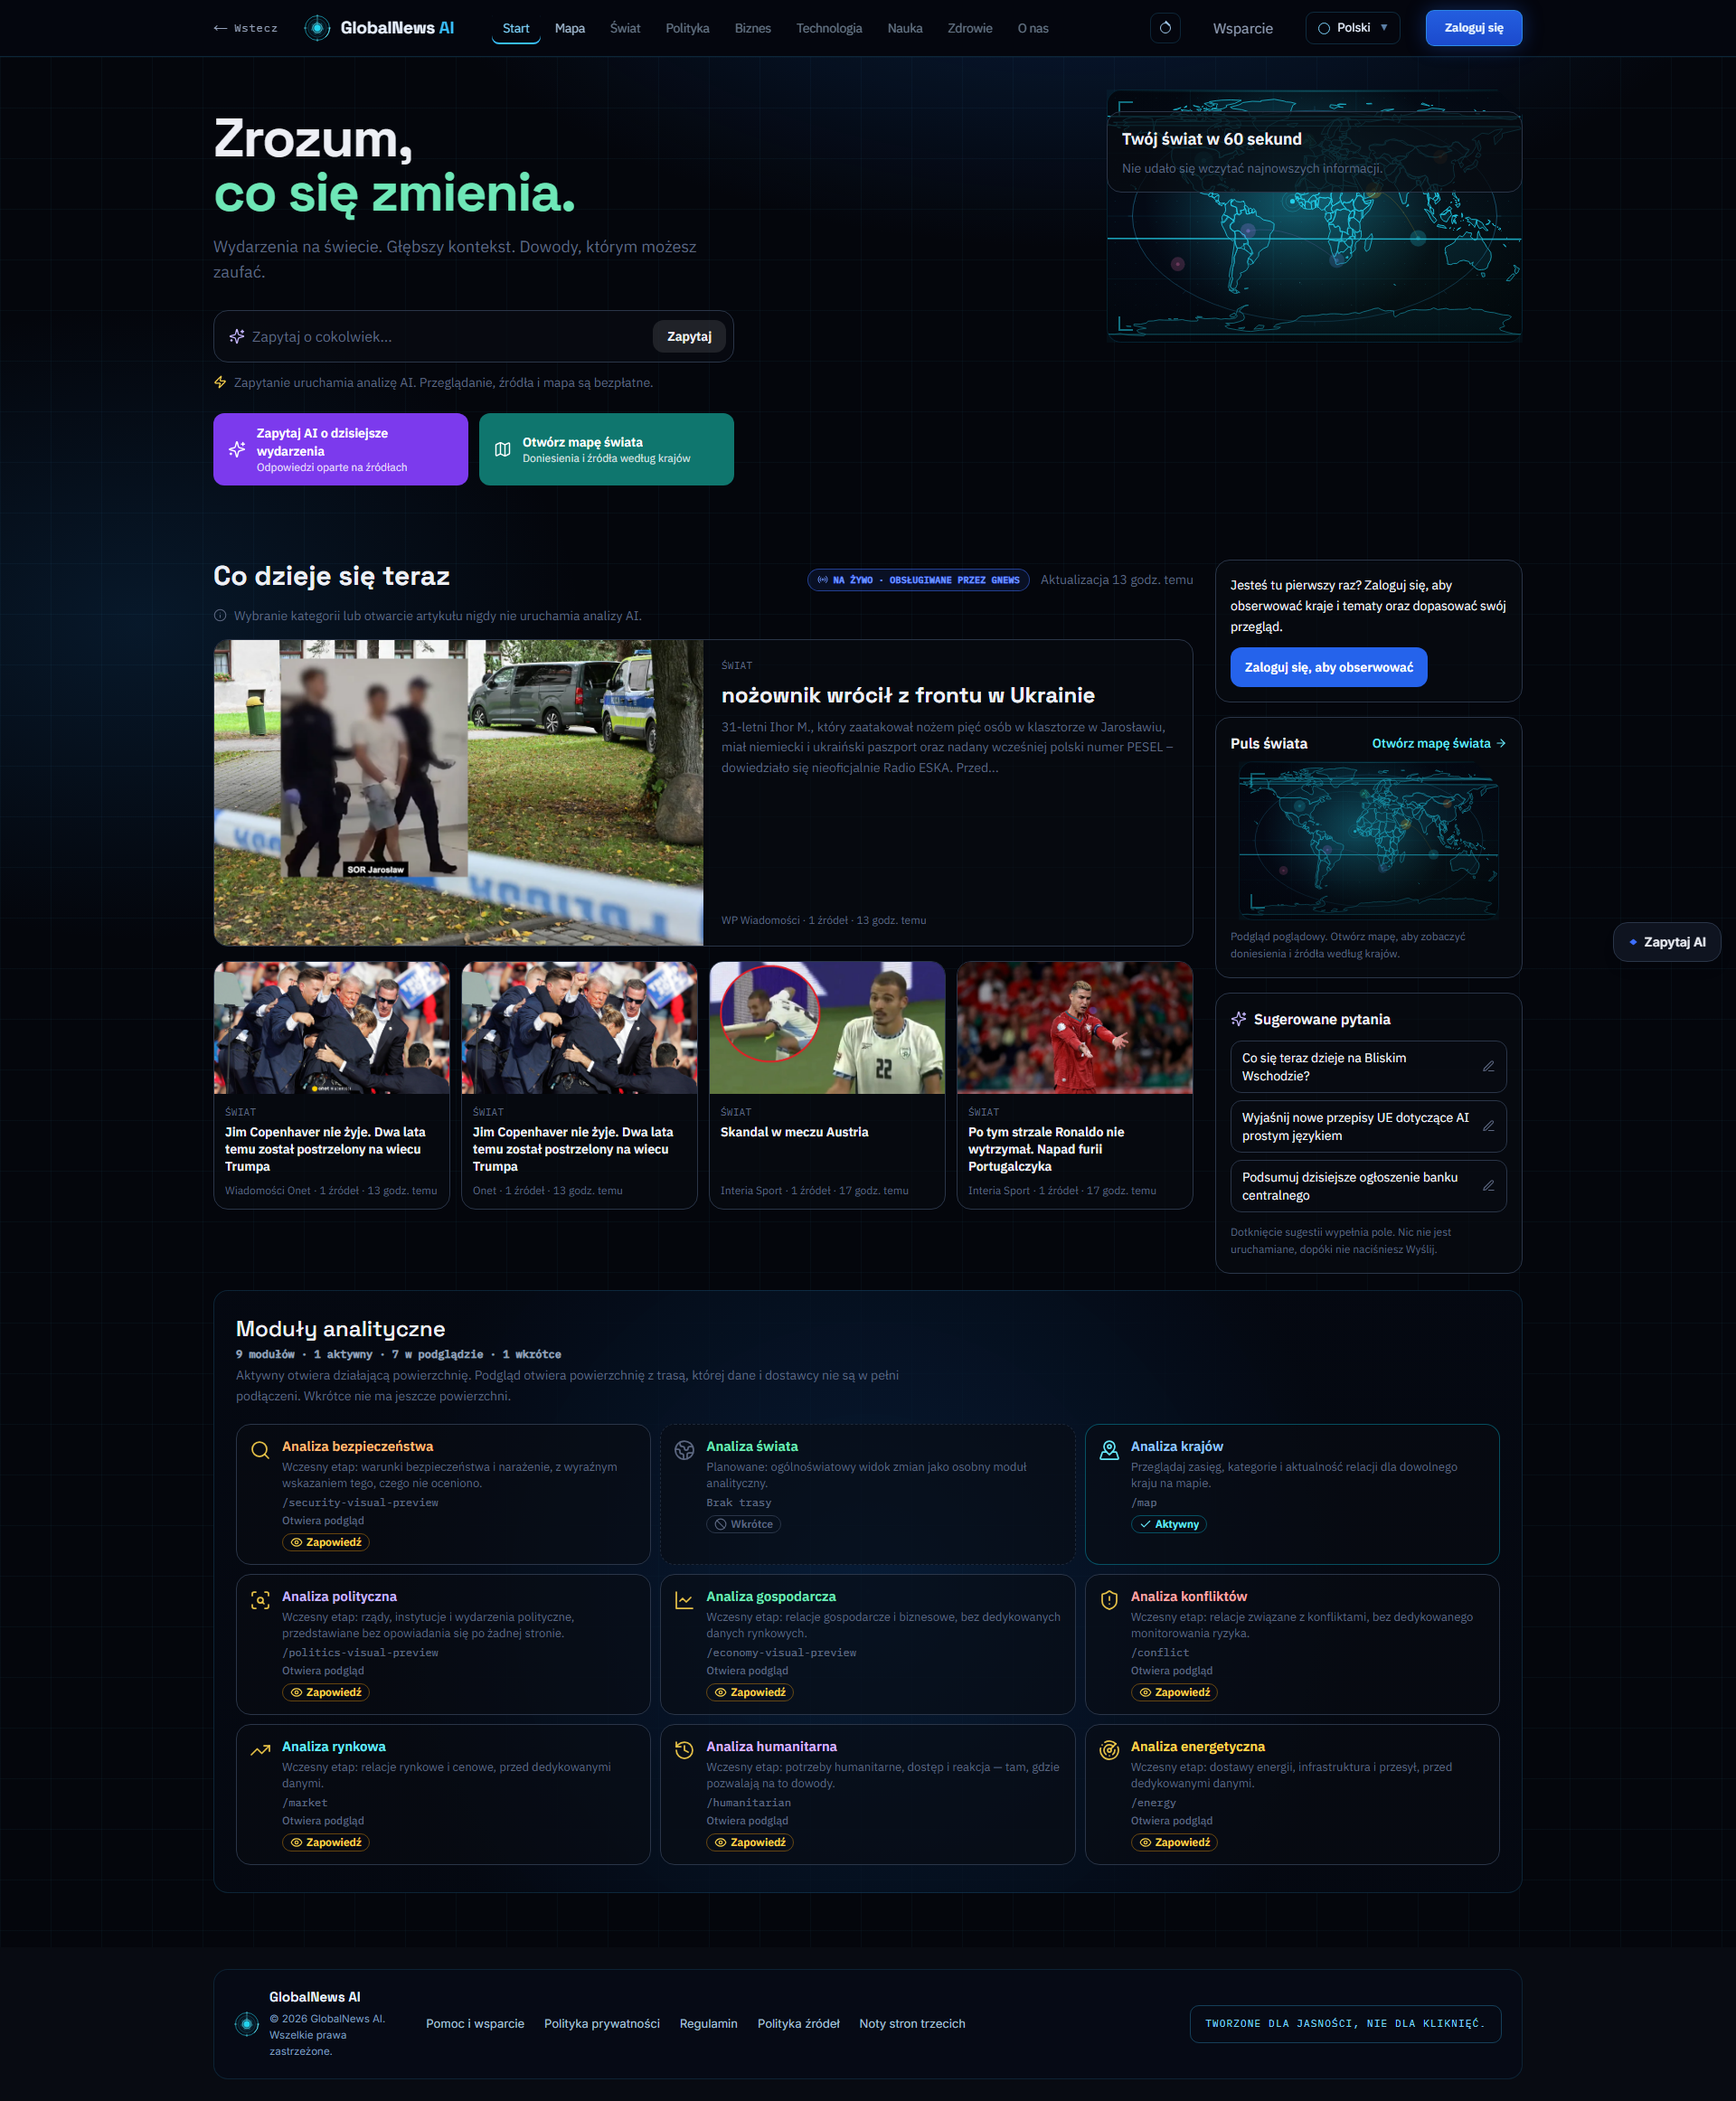
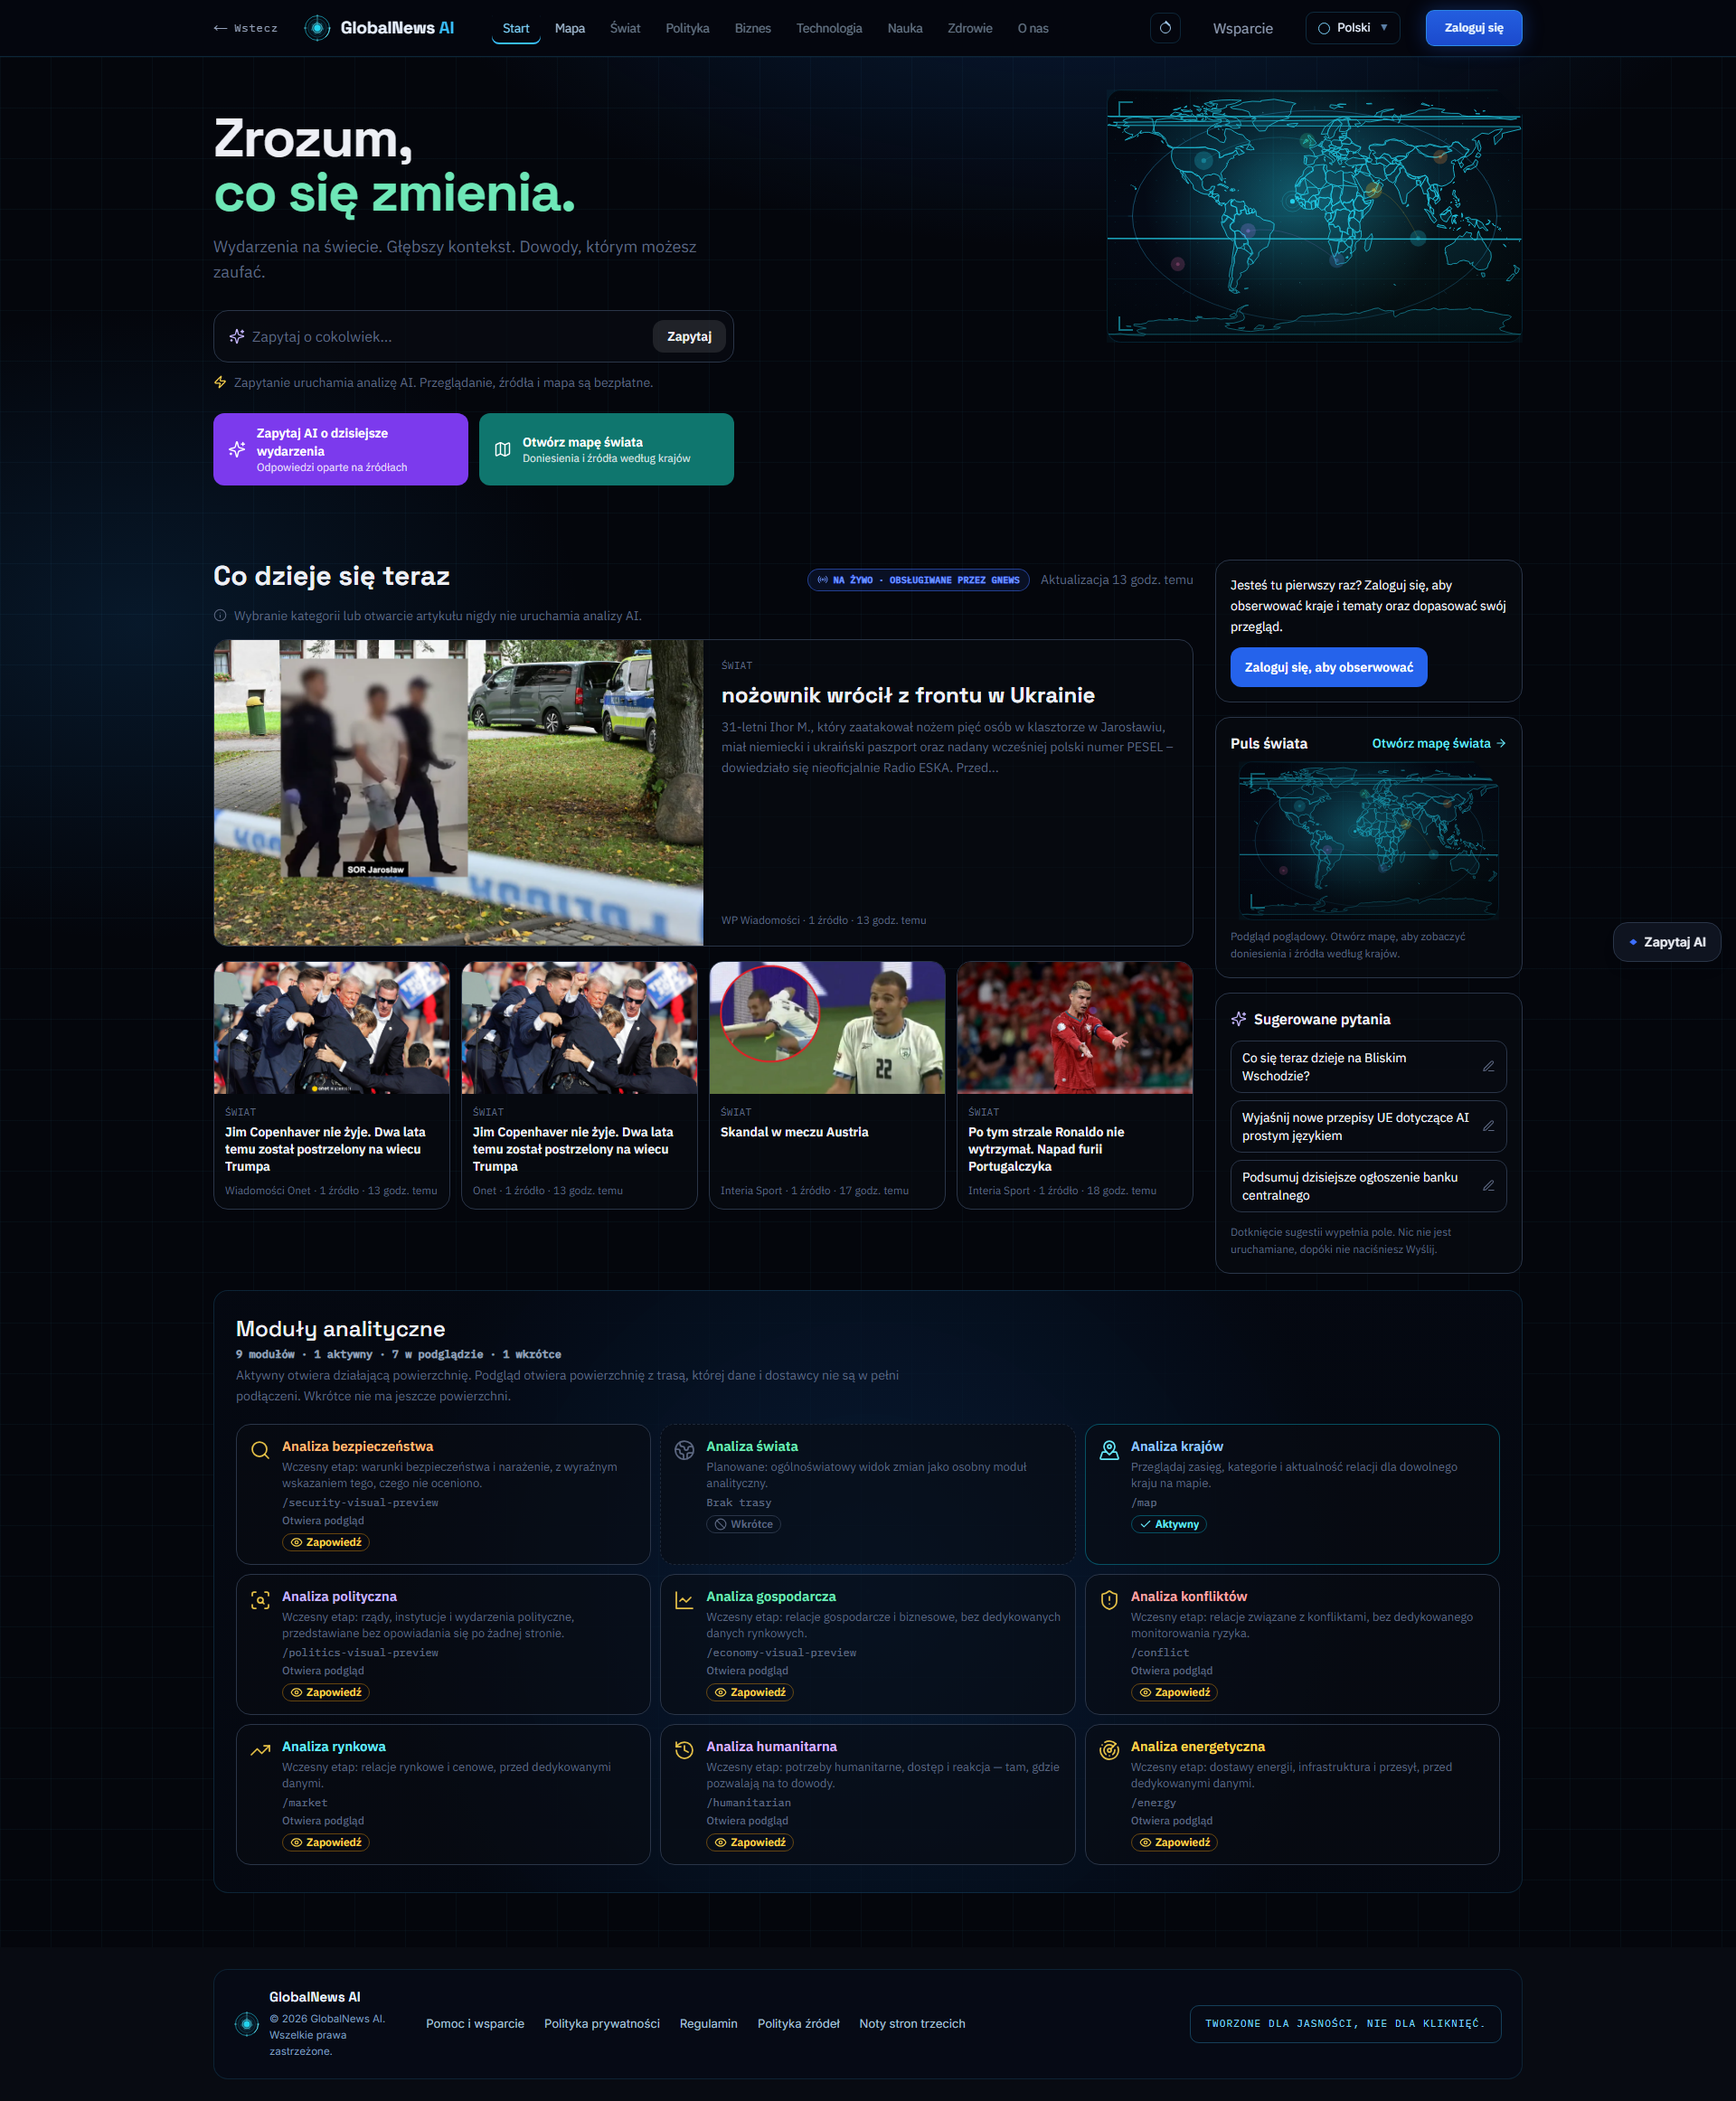
docs(home): final report and live Alpha evidence
Issue #29 §13. Records the completed Home convergence and the Alpha
deployment for Product Owner visual review.

Final Home commit 1f735ce; integration/beta-launch-convergence-r1 and
release/alpha-m08-integrated-r1 both fast-forwarded to the same SHA.
Railway alpha frontend deployment 39c4a7cc-6e3c-49e1-ab78-8a5f32eb0f23,
status SUCCESS, at https://frontend-alpha-4560.up.railway.app

Adds the 14 live-Alpha frames (seven widths x EN/PL) with a real backend and
a real GNews feed, the probe report, and the capture harness itself so the
evidence is reproducible.

Live smoke: HTTP 200, approved hero and all approved zones present, the
three retired sections absent, four destinations intact, /ask form action
present with three /ask?q= suggestion links, 0 metered AI across all 14
frames, no horizontal overflow at any width, correct <html lang> in both
locales, and both Alpha-found defects verified fixed.

Six known defects recorded rather than hidden, including one that needs a
ruling: the page <title>, og:title and twitter:title still advertise the
superseded headline. That string is the homeMetaTitle key, which is not among
the 139 approved Home copy keys and so sat outside the H0 zone matrix. It was
not changed unilaterally because "/" is one of only five indexable routes, so
its title is an SEO decision rather than a Home composition one.

Changed region(s): [[0.6562, 0.031, 0.875, 0.0929]]

diff --git a/docs/beta/HOME-FINAL-REPORT-R1.md b/docs/beta/HOME-FINAL-REPORT-R1.md
@@ -1,0 +1,193 @@
+# BETA HOME FULL CONVERGENCE R1 — FINAL REPORT
+
+Issue #29. Contract `docs/beta/BETA-HOME-FULL-CONVERGENCE-R1.md` §13.
+Date 2026-09-25.
+
+---
+
+## 1–3. Commits and integration
+
+| # | What | SHA |
+|---|---|---|
+| 1 | **Final Home commit** | `1f735ce4b2e7…` (`1f735ce`) |
+| 2 | **Integrated Beta** — `integration/beta-launch-convergence-r1` | `1f735ce` |
+| 3 | **Alpha release** — `release/alpha-m08-integrated-r1` | `1f735ce` |
+
+All three refs are identical. Both integrations were clean **fast-forwards** from
+`c3dd01a`; neither target had diverged.
+
+## 4. Railway deployment
+
+| Field | Value |
+|---|---|
+| Project | `GlobalNewsAI-Alpha` · `38134692-b6d7-46a2-9651-1b93dad41dd6` |
+| Environment | **alpha** · `70105bf5-b195-41af-b237-8745c8e76506` (matches `ALPHA_ENVIRONMENT_ID` in source) |
+| Service | **frontend** · `c32ed75f-52a7-4459-98d2-635136090584` (frontend only) |
+| **Deployment ID** | **`39c4a7cc-6e3c-49e1-ab78-8a5f32eb0f23`** |
+| **Status** | **SUCCESS** |
+| URL | https://frontend-alpha-4560.up.railway.app |
+
+Two earlier attempts are recorded for completeness: `dcd9c361` SUCCESS (the pre-fix build)
+and `2803add1` FAILED (CLI upload timeout, no deploy). The live deployment is `39c4a7cc`.
+
+## 5. H0–H8 commit list
+
+| Increment | SHA | Subject |
+|---|---|---|
+| H0 | `a0d5e50` | full Home authority reconciliation |
+| H1 | `2f4a2b7` | Home shell decisions, navigation HELD on evidence |
+| H2 | `4794d47` | approved Beta hero and the 60-second brief |
+| H3 | `db649dd` | approved current-developments area, three surfaces retired |
+| H4 | — | preserved from `c3dd01a`, not recreated |
+| H5 | `422ffe7` | Home side rail, three non-authority sections retired |
+| H6/H7 | `4bdd1af` | responsive at seven widths, EN and PL |
+| H8 | `59ebef4` | full Home quality gate |
+| fix | `1f735ce` | two defects found on live Alpha |
+
+## 6. Changed files by Home zone
+
+**Hero + brief (Z6–Z10):** `components/home/BetaHero.tsx` *(new)*,
+`components/home/SixtySecondBrief.tsx` *(new)*
+**Editorial area (Z11, Z13–Z15):** `components/home/WhatsHappeningNow.tsx` *(new)*
+**Side rail (Z17, Z18, Z20):** `components/home/HomeSideRail.tsx` *(new)*
+**Composition:** `app/page.tsx`
+**Copy:** `lib/i18n/dictionaries/en.ts`, `lib/i18n/dictionaries/pl.ts`
+**Gates re-pointed (9):** `homepage.architecture`, `masterRecomposition`,
+`claudeDesignFoundation`, `todayWorkspace`, `TodaySection`, `heroFocusChain`,
+`m65LanguageIntegrity`, `trustGeometry`, `howItWorksDesktop`
+**Docs/evidence:** `docs/beta/HOME-H0-AUTHORITY-RECONCILIATION-R1.md`,
+`HOME-H8-QUALITY-GATE-R1.md`, this report, `docs/beta/evidence/home-r1/**`
+
+**Retired from Home, none deleted:** `Hero`, `GlobalDevelopments`, `LiveStatusStrip`,
+`HeroFocusProvider`, `TodayWorkspace`, `HowItWorks`, `TrustSection`.
+
+## 7. Design authority consulted
+
+All four packages re-verified by SHA256, matched by hash not filename; 246 files
+re-checked against their manifests, 0 mismatched, 0 missing.
+
+R4.1 desktop/tablet `9da21053…94bc` · R4.1 phone `f843483c…ffe0` ·
+R5.1 desktop/tablet `a90954d1…c2a9bb` · R5.1 phone `85ecda57…6362be`.
+
+Read: R4.1 `README`, `SPEC`, `NAVIGATION`, `COMPONENTS_AND_TOKENS`,
+`INTERACTIONS_AND_STATES`, `IMAGERY_SPEC`, `ROUTE_MODULE_MATRIX`,
+`CONTRACT_CONFLICTS`, `QA_LOG`, `R4_CHANGE_LOG`, `i18n_en_pl.json`, `tokens/`, and the
+Home frames at 1920/1440/1024/768/430/390/360. R5.1 `HOME_R4.1_DELTA`,
+`INTELLIGENCE_MODULE_MATRIX`, `PROPOSED_DELTAS`, `CATEGORY_COLOUR_TOKENS`,
+`AUTHORITY_DELTA_REGISTER`, `NAVIGATION`, `SPEC`, `COMPONENTS_AND_TOKENS`,
+`MODULE_COVERAGE`, `R5_1_CHANGE_LOG`, `MANIFEST`, and the H1/H3/H4 Home frames.
+
+## 8–9. Tests, build, baseline comparison
+
+| Command | Result |
+|---|---|
+| `npx jest` (frontend) | 10 suites / 15 tests fail · **284 suites / 6526 tests pass** |
+| `npm run test:shared` | 13 suites / **523 tests pass** |
+| `npm run build:shared` | exit 0 |
+| `npm run build:frontend` | exit 0 |
+
+| | Suites failed | Tests failed | Tests passed |
+|---|---|---|---|
+| Base `c3dd01a` | 10 | 15 | 6526 |
+| Final `1f735ce` | **10** | **15** | **6526** |
+
+**Zero new failures.** The ten are the identical pre-existing set (two market specs, four
+admin/provenance, two map, `evidence/visualAuthority`, `mapShellRouteWiring`).
+
+## 10. Quota / network
+
+**0 metered AI or provider requests** across all 14 live-Alpha captures, and 0 across the
+14 local captures. Verified in source too: one `getHomeFeed()` call, no direct `fetch(`, no
+`analyzeNews` anywhere on the Home path.
+
+**Home now contains no control that can start a metered analysis.** The base did: the old
+hero submitted to `/search?q=`, which auto-runs one analysis by the N3 ruling. The approved
+hero posts a native GET form to `/ask`, where the value is staged as a draft and runs only
+on Send.
+
+Network on live Alpha: **14× `401 /api/users/me`** — the correct response for a signed-out
+visitor, from the header account control. The local 500s were purely the missing backend;
+Alpha confirms the endpoint behaves. Retiring `TodayWorkspace` also removed the only
+`/api/follows/countries` consumer, so that call is gone entirely.
+
+## 11. EN / PL
+
+Both locales render the whole Home; `<html lang>` correct on all 14 Alpha frames, 0 locale
+mismatches. Verified live: `co się zmienia`, `Twój świat w 60 sekund`,
+`Co dzieje się teraz`, `Moduły analityczne`, `Puls świata`, `Sugerowane pytania`, and
+correct Polish plurals (`1 źródło`).
+
+**PL is the design lane's DRAFT.** `i18n_en_pl.json` marks its Polish "DRAFT FOR REVIEW"
+except nine keys marked APPROVED — and those nine are approved because they were copied
+*from* this repository. Using the draft is the only option that neither invents a
+translation (§6) nor regresses EN/PL parity (§2). **FOR REVIEW.**
+
+## 12. Responsive
+
+14 live-Alpha captures at **1920×1080, 1440×900, 1024×768, 768×1024, 430×932, 390×844,
+360×800**, each in EN and PL. Every frame: HTTP 200, **no horizontal overflow**, correct
+`lang`, `#intelligence-modules` anchor present, **all nine module titles visible as text**.
+
+One responsive defect was found and fixed at H6: World Pulse rendered its map unbounded and
+reached ~768px tall at tablet portrait; capped to a 320px thumbnail.
+
+## 13. Evidence paths
+
+```
+docs/beta/evidence/home-r1/alpha/   14 live-Alpha frames + ALPHA-report.json   <- final
+docs/beta/evidence/home-r1/h6/      14 local frames, seven widths
+docs/beta/evidence/home-r1/h5/      8 local frames
+docs/beta/evidence/home-r1/h3/      8 local frames
+docs/beta/evidence/home-r1/h2/      8 local frames
+docs/beta/evidence/home-r1/capture-home.mjs   the harness, committed for reproducibility
+```
+
+## 14. Live Alpha smoke results
+
+| Check | Result |
+|---|---|
+| `GET /` | **200** |
+| Approved hero headline live | present |
+| Approved zones live | 60-second brief, What's happening now, World Pulse, Suggested questions, Intelligence modules, sign-in card |
+| Retired sections absent | "Why trust GlobalNews AI" 0 · "From question to clarity" 0 · "What did GlobalNews AI first observe" 0 |
+| Real data | live GNews feed, real publishers, real images, `LIVE · POWERED BY GNEWS`, "Updated 12 hr ago" |
+| Four destinations | `/`, `/map`, `/ask`, `#intelligence-modules` all present |
+| `/ask` form action | `action="/ask"` present; 3 `/ask?q=` suggestion links |
+| Metered AI on browse | **0** across 14 frames |
+| PL | `<html lang="pl">`, Polish throughout |
+| Defect fixes | false-failure message **0**, `"1 sources"` **0**, `"1 source"` correct, `1 źródło` correct |
+
+## 15. OPEN items — none closed
+
+N1 · N2 · N4 · N5 · N6 · **N7** · N9 · N11 · S1 · S2 · F1 · M2 · M3 · P1 · CC1–CC4 ·
+Ask D6 · Spatial D1 · D2 · D17 · D18 · R4.1 C3, C4, C6, C7, C8, C11, C13 · plans/billing.
+
+Two Home zones held: **Z16 "For you"** and **Z19 Following chips**, both signed-in surfaces.
+
+## 16. Known defects still visible
+
+1. **Page title still advertises the superseded headline.** `<title>`, `og:title` and
+   `twitter:title` read "GlobalNews AI — Understand today's world in seconds." The rendered
+   hero is correct; this is the `homeMetaTitle` key, which is **not** among the 139 approved
+   Home copy keys and so was outside the H0 zone matrix. Not changed unilaterally: `/` is
+   one of only five indexable routes, so its title is an SEO decision. **Needs a ruling.**
+2. **Header search control routes to `/search`.** Home *content* links only to `/ask`; the
+   two `/search` links are the header search icon, held under **N4 (OPEN)**. Not a quota
+   issue — bare `/search` with no `q` runs 0 AI.
+3. **Desktop header shows two routable destinations plus seven non-routing labels**, where
+   the approved frame draws four. Held under **N1 (OPEN)** — the nine-item sequence is
+   itself an accepted authority enforced by four spec suites.
+4. **The 60-second brief is currently absent on Alpha.** `latestUpdates` is the response
+   minus the stories already placed, and the present retrieval leaves it empty. This is the
+   correct behaviour after the fix — it renders nothing rather than claiming a failure —
+   but it means the Product Owner will not see that panel populated until the feed returns
+   a wider result. Worth a look at review time.
+5. **PL copy for new zones is the design lane's draft** (§11).
+6. **Category chips are absent** — N7, taxonomy (§15).
+
+## 17.
+
+`READY FOR PRODUCT OWNER FULL HOME VISUAL REVIEW — ALPHA`
+
+No Production deployment. No `globalnewsai.live` binding. No provider activation. No
+public-indexing change. No specialist module started.
